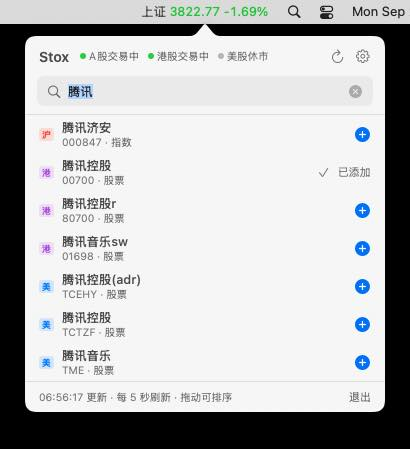
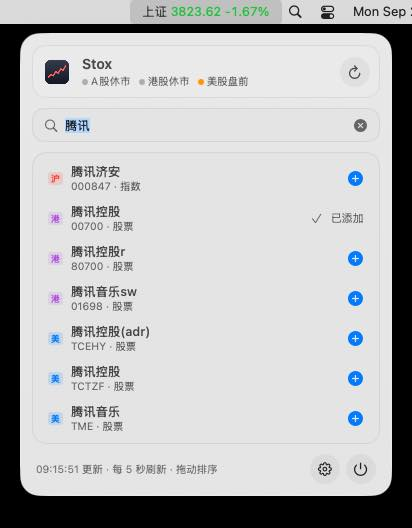
Refresh the README screenshots
Replace the screenshots with the glass panel and add the no-color
option, the settings window and the update banner.

[screenshots: settings-about settings-general hidden]

Claude-Session: https://claude.ai/code/session_01H7xfHWHbRJ9Cp9s4wvneon

Changed region(s): [[0.0, 0.0, 1.0, 0.9666]]

diff --git a/README.md b/README.md
@@ -8,10 +8,13 @@
 </p>
 <p>
   <img src="docs/images/search.jpg" width="300" alt="搜索添加">
-  <img src="docs/images/settings.jpg" width="300" alt="设置">
+  <img src="docs/images/neutral.jpg" width="300" alt="不显示红绿">
+</p>
+<p>
+  <img src="docs/images/settings.jpg" width="604" alt="设置窗口">
 </p>
 
-以上截图由 CI 在 macOS 15 上启动打包好的 App 自动截取，数据为 2026-09-28 的实时行情。
+截图依次是自选列表、展开详情、搜索添加、“不显示红绿”配色和设置窗口，由 CI 在 macOS 15 上启动打包好的 App 自动截取，数据为 2026-09-28 的实时行情。
 
 ## 功能
 
@@ -100,7 +103,11 @@ UNIVERSAL=1 make app   # 打包 Apple 芯片 + Intel 通用版
 
 ### 更新
 
+<img src="docs/images/update.jpg" width="300" alt="面板底部的更新条" align="right">
+
 Stox 启动后和之后每 6 小时检查一次 [GitHub Releases](https://github.com/whrss9527/stox/releases)，发现新版本时发一条通知，面板底部出现“更新”按钮。点一下会下载 `Stox.zip`，用发布附带的 SHA-256 校验，确认是同一个 App 并且签名完整后替换程序并重新启动，自选和设置都会保留。从“下载”文件夹直接运行时，新版本会装进“应用程序”，旧的那份移到废纸篓。不想自动检查可以在“关于与更新”页关掉。
+
+<br clear="right">
 
 ## 开发
 
